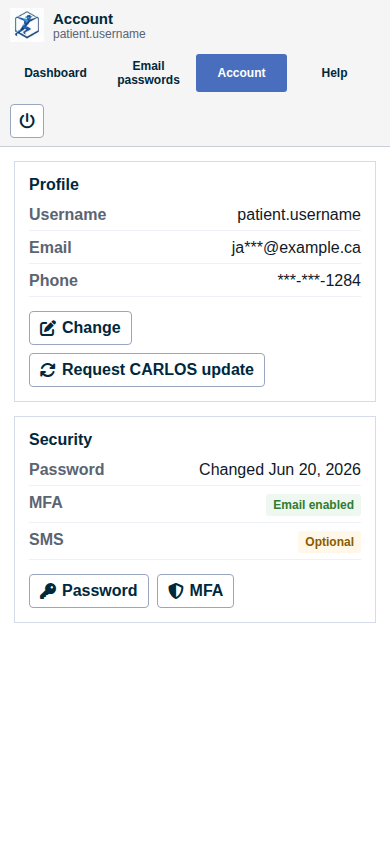
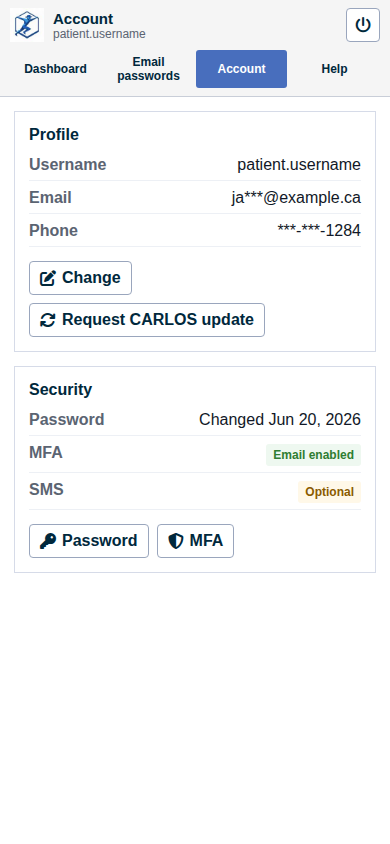
docs: align mobile logout buttons in portal mocks

diff --git a/patient-portal-mocks/index.html b/patient-portal-mocks/index.html
@@ -161,7 +161,7 @@
       </section>
 
       <section class="portal-screen" id="dashboard" aria-label="Dashboard mock">
-        <header class="patient-topbar">
+        <header class="patient-topbar session-topbar dashboard-topbar">
           <div class="brand-lockup">
             <img src="../src/main/webapp/images/oscar_logo_small.png" alt="" class="brand-logo">
             <div>
@@ -220,7 +220,7 @@
       </section>
 
       <section class="portal-screen" id="passwords" aria-label="Email passwords mock">
-        <header class="patient-topbar">
+        <header class="patient-topbar session-topbar">
           <div class="brand-lockup">
             <img src="../src/main/webapp/images/oscar_logo_small.png" alt="" class="brand-logo">
             <div>
@@ -289,7 +289,7 @@
       </section>
 
       <section class="portal-screen" id="account" aria-label="Account mock">
-        <header class="patient-topbar">
+        <header class="patient-topbar session-topbar">
           <div class="brand-lockup">
             <img src="../src/main/webapp/images/oscar_logo_small.png" alt="" class="brand-logo">
             <div>

diff --git a/patient-portal-mocks/styles.css b/patient-portal-mocks/styles.css
@@ -878,6 +878,28 @@ h2 {
     margin-left: auto;
   }
 
+  .patient-topbar.session-topbar {
+    display: grid;
+    grid-template-columns: minmax(0, 1fr) 34px;
+    gap: 8px 12px;
+    align-items: center;
+  }
+
+  .session-topbar .brand-lockup {
+    min-width: 0;
+  }
+
+  .session-topbar .patient-nav {
+    grid-column: 1 / -1;
+    grid-row: 2;
+  }
+
+  .session-topbar > .icon-button {
+    grid-column: 2;
+    grid-row: 1;
+    justify-self: end;
+  }
+
   .patient-nav {
     margin-left: 0;
     width: 100%;
